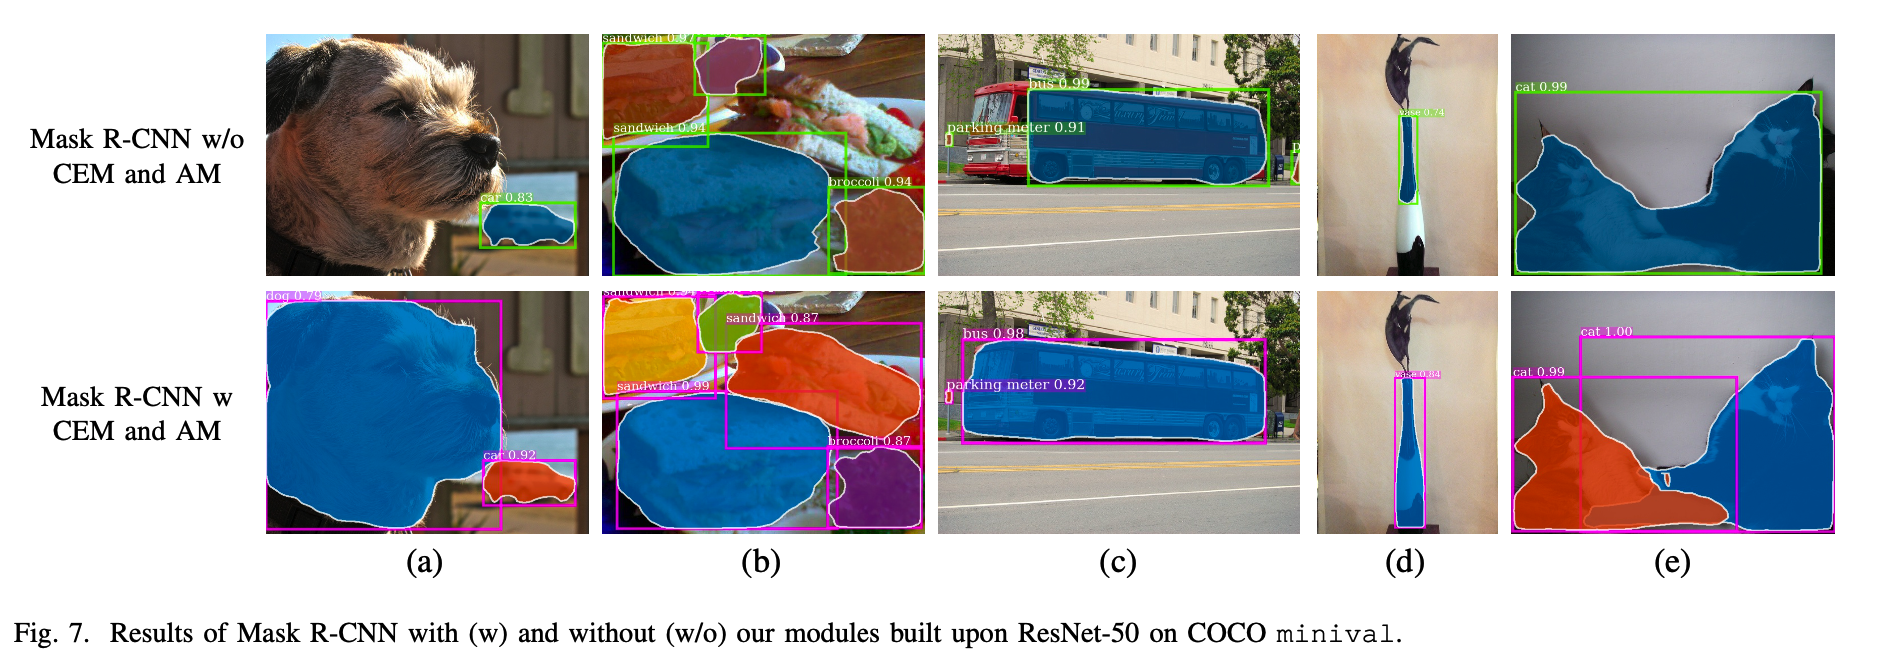
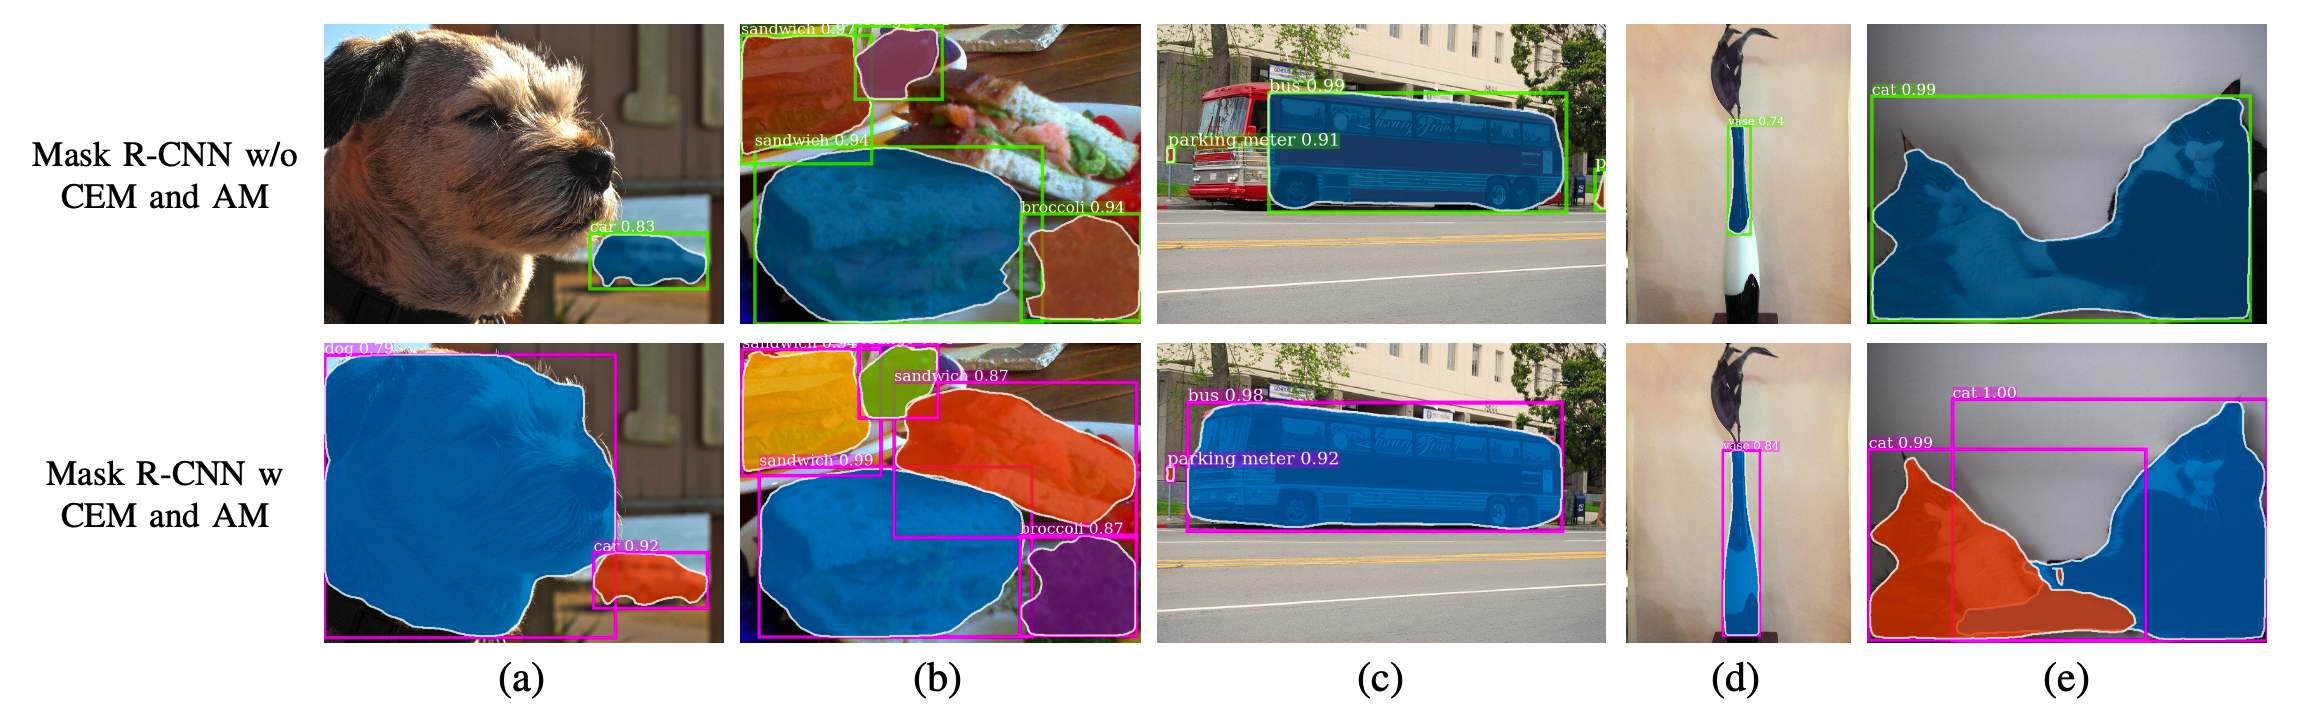
update readme

diff --git a/README.md b/README.md
@@ -13,10 +13,10 @@ Please follow [Detectron](https://github.com/facebookresearch/Detectron) on how 
 Because of the proposed architecture, We have better performance on bigger objectWe have better performance on bigger object 
 ![architecture](pics/architecture.jpg)
 
-Object detection result
+Visualization of object detection. Both models are built upon ResNet-50 on COCO minival.
 ![detection](pics/detection_samples.png) 
 
-Instance segmentation result
+Results of Mask R-CNN with (w) and without (w/o) our modules built upon ResNet-50 on COCO minival.
 ![segmentation](pics/instance_samples.png) 
 
 More detail in paper.
